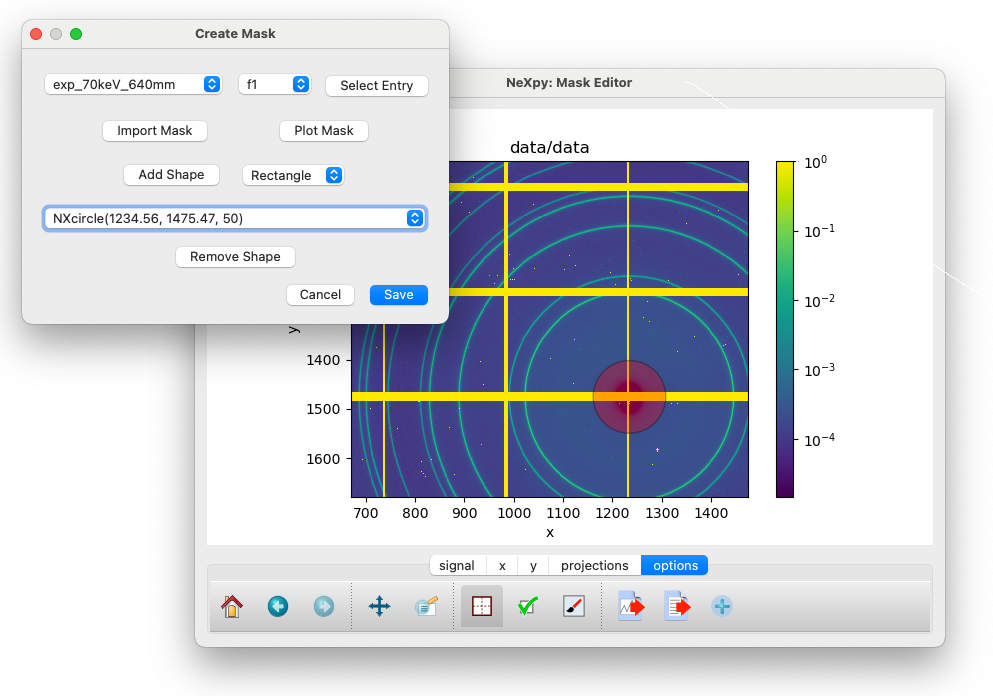
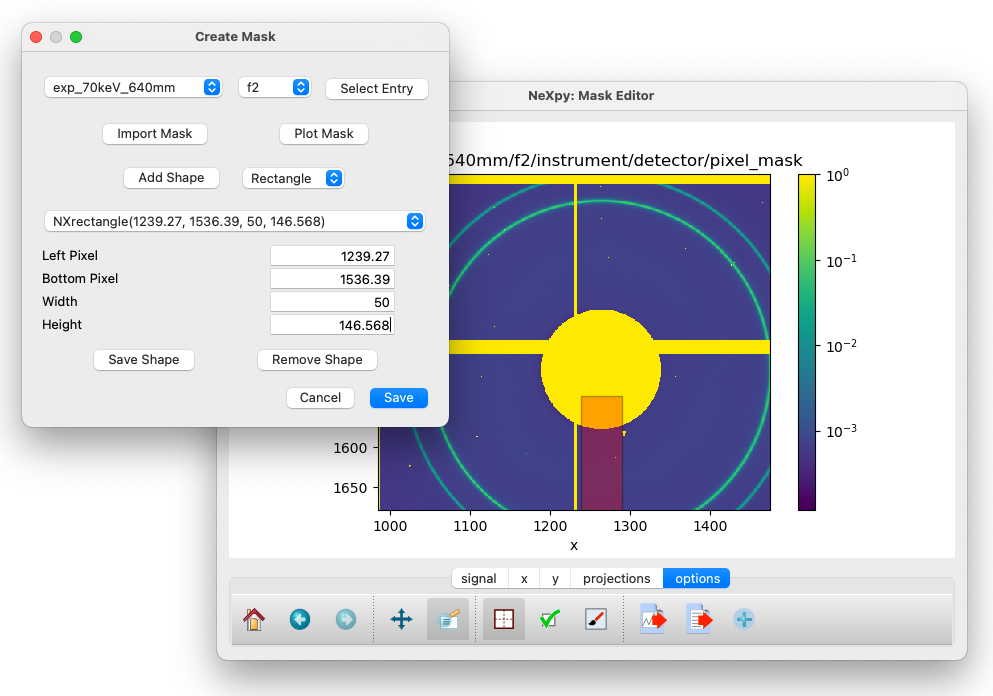
Update the "Create Mask" section

diff --git a/docs/source/experiment.rst b/docs/source/experiment.rst
@@ -462,28 +462,31 @@ beamline regularly updates a particular detector's mask as bad pixels are identi
              overwrite the existing mask. It is important therefore that
              the external pixel mask also excludes the detector gaps.
 
-After launching the dialog, the current mask can be plotted by clicking
-on "Plot Mask." This overlays the mask on the powder diffraction data to
-enable the center of the beam and other features of the data to be
-identified. 
+After launching the dialog, the current mask is automatically plotted,
+as an overlay on the powder diffraction data to enable the center of the
+beam and other features of the data to be identified. 
 
 .. figure:: /images/create-mask.png
    :align: center
    :width: 80%
 
-   *Create Mask dialog. The translucent red circle shows the circle
+   *Create Mask dialog. The translucent shape shows the rectangle
    created by clicking "Add Shape".*
 
 By clicking on "Add Shape" with either a rectangle or circle selected, a
 translucent shape is added to the plot. By default, it is centered on
 the beam center, but may be moved by dragging the center of the shape
 and/or resized by dragging one of the shape edges. When the shape has
-the correct position and size, click on "Add Shape" again for the shape
-to be added to the current list. A pull-down menu allows existing shapes
-to be selected for removal if necessary.
+the correct position and size, click on "Save Shape" for the shape to be
+added to the current list. After saving the shape, it is no longer
+draggable. However, the shape can still be modified by adjusting the
+shape parameters and then clicking on "Save Shape" again. A pull-down
+menu allows existing shapes to be selected for further edits or removal
+if necessary.
 
 If a more complicated mask is required, it can be generated by an
 external image editor and imported using "Import Mask".
 
-When the mask is complete, click "Save" to save it to the configuration file.
+When the mask is complete, click "Save" to save it to the configuration
+file.
 
